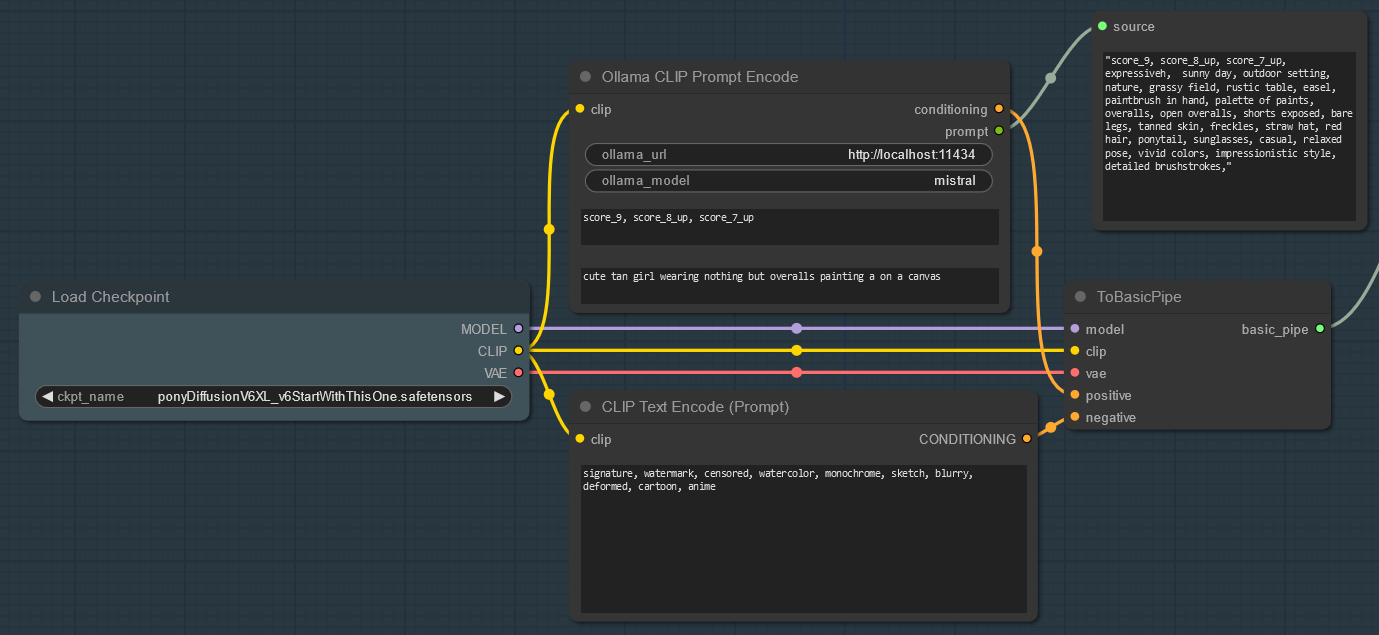
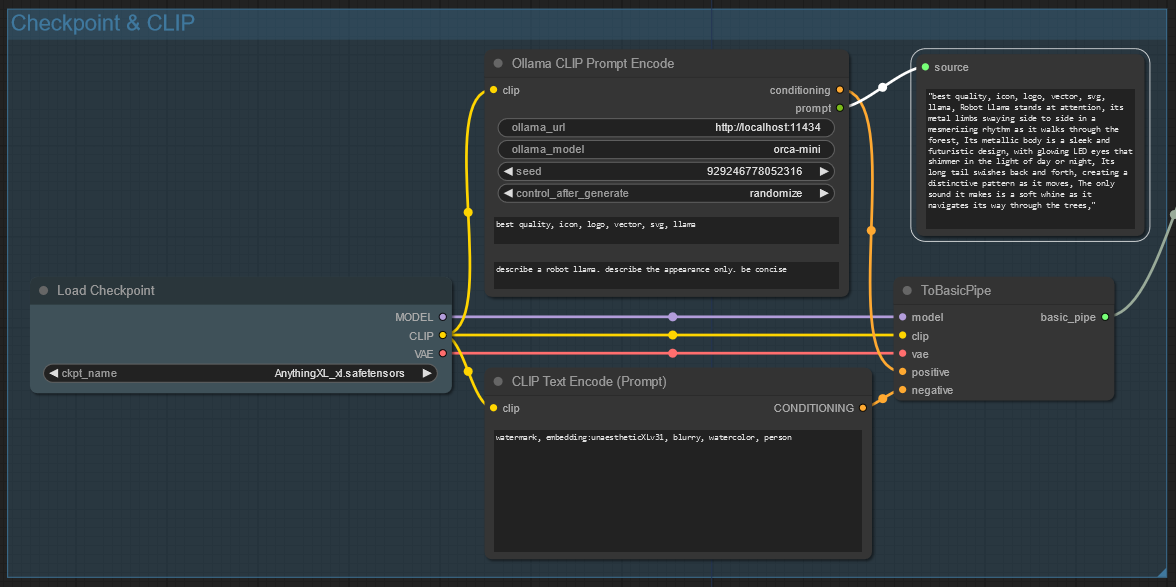
Update docs for seed

Changed region(s): [[0.0, 0.0, 1.0, 1.0], [0.4286, 0.7359, 0.7041, 0.7973]]

diff --git a/README.md b/README.md
@@ -36,6 +36,10 @@ The node will automatically download the model if it is not already present on y
 
 Smaller models are recommended for faster generation times.
 
+### Seed
+
+The seed that will be used to generate the prompt. This is useful for generating the same prompt multiple times or ensuring a different prompt is generated each time.
+
 ### Prepend Tags
 
 A string that will be prepended to the generated prompt.
